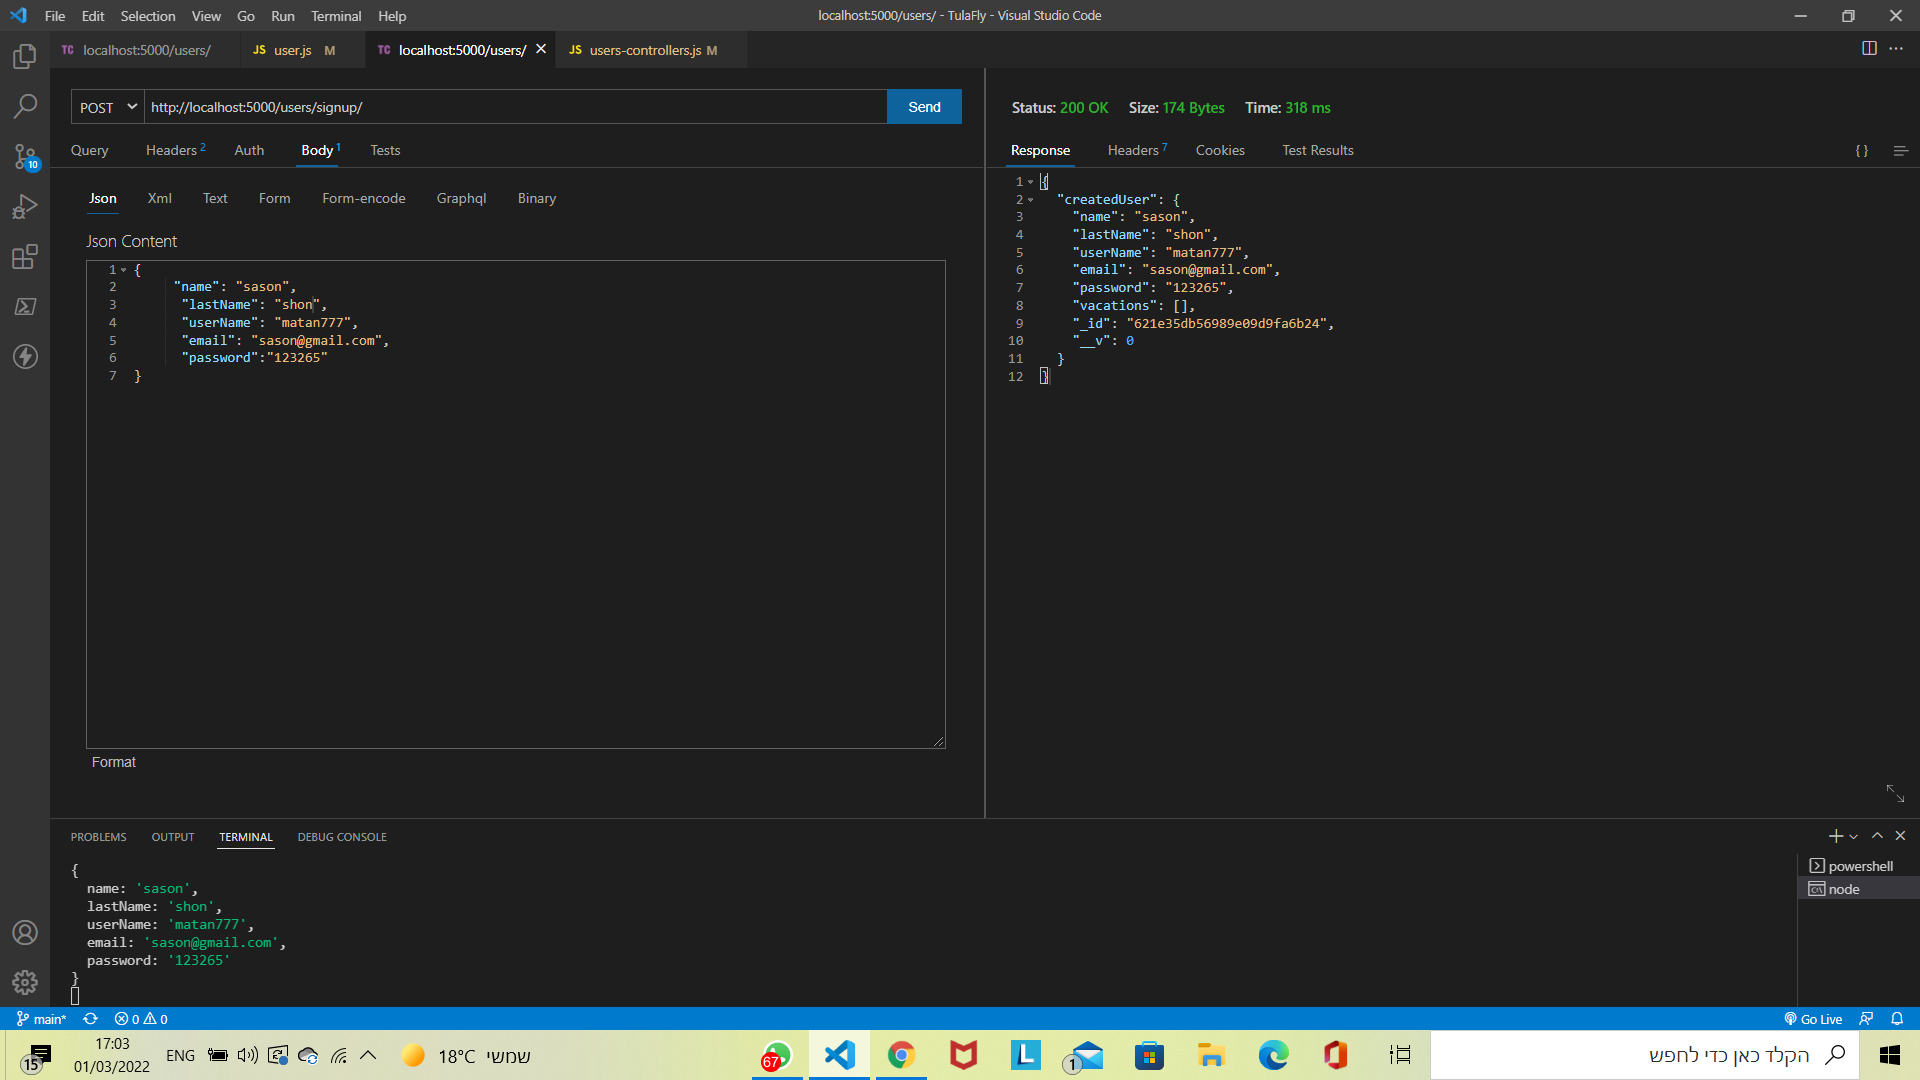
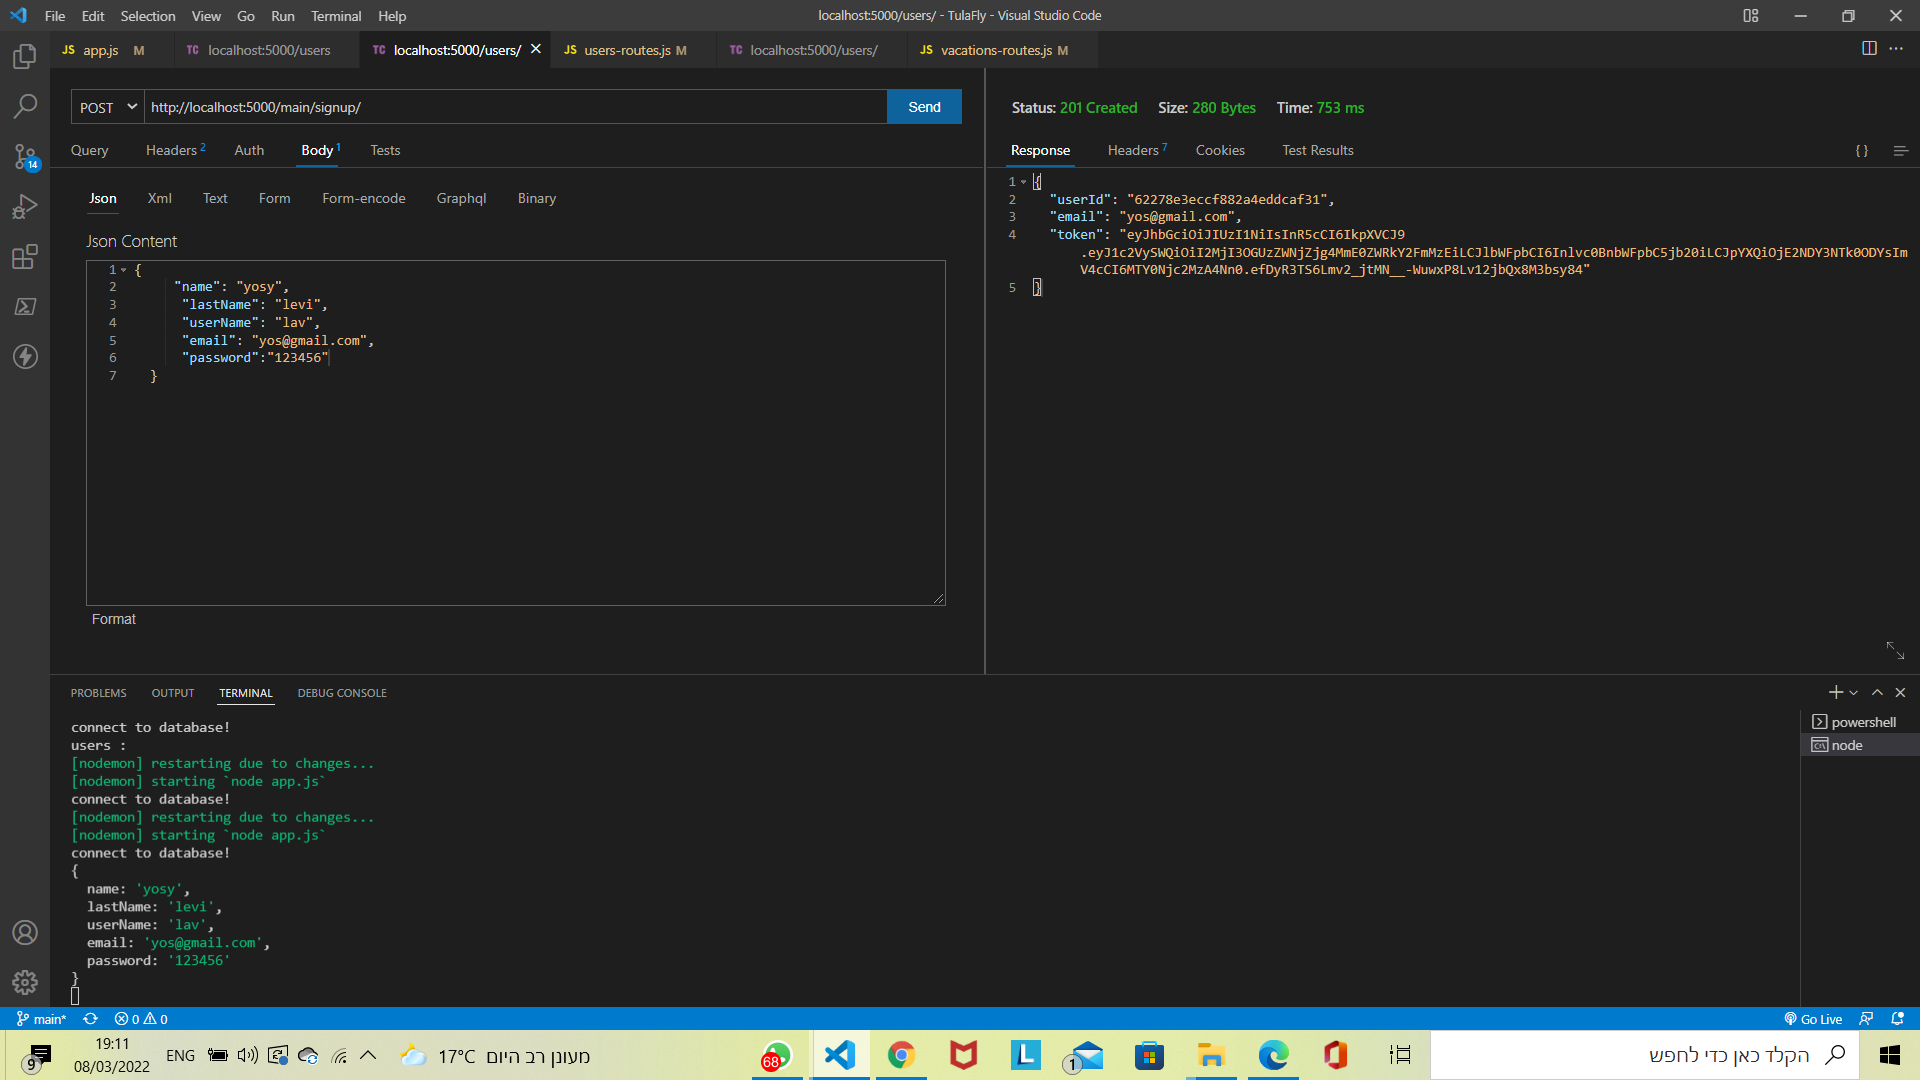
added role-based access control

diff --git a/back/routes/admin-routes.js b/back/routes/admin-routes.js
@@ -1,0 +1,41 @@
+const express = require("express");
+const { check } = require("express-validator");
+const usersControllers = require("../controllers/users-controllers");
+
+const vacationControllers = require("../controllers/vacations-controllers");
+const checkAuth = require("../middleware/check-auth");
+const checkAdmin = require("../middleware/checkAdmin");
+const router = express.Router();
+
+router.use(checkAuth);
+
+router.get("/:aid/users", checkAdmin, usersControllers.getUsers);
+
+router.post(
+  "/:aid/",
+  checkAdmin,
+  check("image").not().isEmpty(),
+  [
+    check("description").not().isEmpty(),
+    check("target").not().isEmpty(),
+    check("departDate").not().isEmpty(),
+    check("returnDate").not().isEmpty(),
+    check("price").not().isEmpty(),
+  ],
+  vacationControllers.createVacation
+);
+
+router.patch(
+  "/:aid/:vid",
+  checkAdmin,
+  [
+    check("description").not().isEmpty(),
+    check("departDate").not().isEmpty(),
+    check("returnDate").not().isEmpty(),
+    check("price").not().isEmpty(),
+  ],
+  vacationControllers.updateVacation
+);
+router.delete("/:aid/:vid", checkAdmin, vacationControllers.deleteVacation);
+
+module.exports = router;

diff --git a/back/routes/vacations-routes.js b/back/routes/vacations-routes.js
@@ -1,35 +1,13 @@
 const express = require("express");
-const { check } = require("express-validator");
 const router = express.Router();
 
 const vacationControllers = require("../controllers/vacations-controllers");
+const checkAuth = require("../middleware/check-auth");
+
 
 router.get("/", vacationControllers.getVacations); 
 
-router.post(
-  "/",
-  check("image").not().isEmpty(),
-  [
-    check("description").not().isEmpty(),
-    check("target").not().isEmpty(),
-    check("departDate").not().isEmpty(),
-    check("returnDate").not().isEmpty(),
-    check("price").not().isEmpty(),
-  ],
-  vacationControllers.createVacation 
-);
-
-router.patch(
-  "/:vid",
-  [
-    check("description").not().isEmpty(),
-    check("departDate").not().isEmpty(),
-    check("returnDate").not().isEmpty(),
-    check("price").not().isEmpty(),
-  ],
-  vacationControllers.updateVacation 
-);
-router.delete("/:vid", vacationControllers.deleteVacation);  
+router.use(checkAuth);
 
 router.get("/:uid", vacationControllers.getVacationsOfUser); 
 

diff --git a/back/app.js b/back/app.js
@@ -5,15 +5,16 @@ const cors = require("cors");
 
 const usersRoutes = require("./routes/users-routes");
 const vacationsRoutes = require("./routes/vacations-routes");
-
+const adminRoutes = require("./routes/admin-routes");
 const app = express();
 app.use(cors());
 app.use(bodyParser.json());
 
-app.use('/users',usersRoutes);
-app.use('/vacations',vacationsRoutes);
-
-mongoose
+app.use("/main", usersRoutes);
+app.use("/vacations", vacationsRoutes);
+app.use("/panelAdmin", adminRoutes);
+ 
+mongoose 
   .connect(
     `mongodb+srv://${process.env.DB_USER}:${process.env.DB_PASSWORD}@cluster0.qk4ej.mongodb.net/${process.env.DB_NAME}?retryWrites=true&w=majority`
   )

diff --git a/back/routes/users-routes.js b/back/routes/users-routes.js
@@ -2,10 +2,10 @@ const express = require("express");
 const { check } = require("express-validator");
 
 const usersControllers = require("../controllers/users-controllers");
-
+const vacationControllers = require("../controllers/vacations-controllers");
 const router = express.Router();
 
-router.get("/", usersControllers.getUsers);
+router.get("/", vacationControllers.getVacations); 
 
 router.post(
   "/signup",
@@ -18,6 +18,7 @@ router.post(
   ],
   usersControllers.signup
 );
+
 router.post("/login", usersControllers.login);
 
 module.exports = router;

diff --git a/back/middleware/checkAdmin.js b/back/middleware/checkAdmin.js
@@ -1,0 +1,15 @@
+const user = require("../models/user");
+const HttpError = require('../models/http-error');
+
+module.exports = async (req, res, next) => {
+  const userId = req.params.aid;
+  let checkAdmin;
+  try {
+    checkAdmin = await user.findById(userId);
+    checkAdmin ? next() : false;
+  } catch (err) {
+    console.log(err);
+    const error = new HttpError("Authentication failed!", 403);
+    return next(error);
+  }
+};

diff --git a/back/models/user.js b/back/models/user.js
@@ -2,6 +2,11 @@ const mongoose = require("mongoose");
 const Schema = mongoose.Schema;
 
 const userSchema = new Schema({
+  isAdmin: {
+    type: Boolean,
+    // enum: ["admin", "user"],
+    // default:"user"
+  },
   name: { type: String, required: true },
   lastName: { type: String, required: true },
   userName: { type: String, required: true },

diff --git a/back/controllers/vacations-controllers.js b/back/controllers/vacations-controllers.js
@@ -100,7 +100,6 @@ const deleteVacation = async (req, res, next) => {
   let users;
   try {
     users = await User.find({ vacations: vacationId });
-    console.log("users :" + users);
     vacation = await Vacation.findById(vacationId);
     updatedUser = users.map(
       async (x) =>

diff --git a/back/middleware/check-auth.js b/back/middleware/check-auth.js
@@ -3,7 +3,7 @@ const jwt = require('jsonwebtoken');
 const HttpError = require('../models/http-error');
 
 module.exports = (req, res, next) => {
-  if (req.method === 'OPTIONS') {
+  if (req.method === 'GET','POST','PATCH','DELETE','PUT') {
     return next();
   }
   try {
